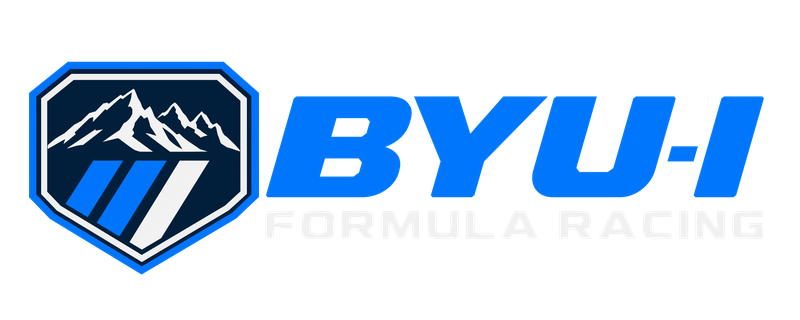
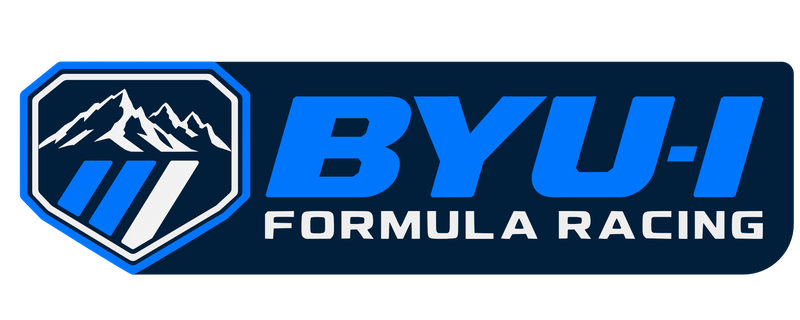
Use custom transparent artwork in compact email signature

diff --git a/docs/email-signature.html b/docs/email-signature.html
@@ -7,24 +7,19 @@
 </head>
 <body style="margin: 0; padding: 0;">
   <!-- Copy the rendered table into Outlook after the hosted PNG is deployed. -->
-  <table role="presentation" border="0" cellpadding="0" cellspacing="0" width="350" style="width: 350px; border-collapse: collapse; mso-table-lspace: 0pt; mso-table-rspace: 0pt; font-family: Arial, Helvetica, sans-serif;">
+  <table role="presentation" border="0" cellpadding="0" cellspacing="0" width="270" style="width: 270px; border-collapse: collapse; mso-table-lspace: 0pt; mso-table-rspace: 0pt; font-family: Arial, Helvetica, sans-serif;">
     <tr>
-      <td bgcolor="#031f3d" style="padding: 0; background-color: #031f3d;">
+      <td style="padding: 0 0 4px; border-bottom: 1px solid #0084ff;">
         <a href="https://byui-racing.com/" style="text-decoration: none;">
-          <img src="https://byui-racing.com/assets/images/email-signature-navy.png" alt="BYU–Idaho Formula Racing" width="350" height="140" border="0" style="display: block; width: 350px; height: 140px; border: 0; color: #ffffff; font-family: Arial, Helvetica, sans-serif; font-size: 16px;">
+          <img src="https://byui-racing.com/assets/images/email-signature.png?v=custom-1" alt="BYU–Idaho Formula Racing" width="270" height="108" border="0" style="display: block; width: 270px; height: 108px; border: 0; color: #526579; font-family: Arial, Helvetica, sans-serif; font-size: 14px;">
         </a>
       </td>
     </tr>
     <tr>
-      <td bgcolor="#ffffff" style="padding: 9px 0 0; background-color: #ffffff; color: #031f3d; font-family: Arial, Helvetica, sans-serif; font-size: 14px; line-height: 20px; mso-line-height-rule: exactly; font-weight: bold;">
-        BYU–Idaho Formula Racing
-      </td>
-    </tr>
-    <tr>
-      <td bgcolor="#ffffff" style="padding: 2px 0 0; background-color: #ffffff; font-family: Arial, Helvetica, sans-serif; font-size: 12px; line-height: 18px; mso-line-height-rule: exactly;">
-        <a href="https://www.instagram.com/byui.formula.racing/" style="color: #005eb8; text-decoration: underline;">Instagram</a>
-        <span style="color: #526579;">&nbsp; | &nbsp;</span>
-        <a href="https://www.linkedin.com/company/byu-i-formula-racing/home/" style="color: #005eb8; text-decoration: underline;">LinkedIn</a>
+      <td style="padding: 6px 0 0; color: #526579; font-family: Arial, Helvetica, sans-serif; font-size: 11px; line-height: 16px; mso-line-height-rule: exactly; font-weight: normal;">
+        <a href="https://www.instagram.com/byui.formula.racing/" style="color: #526579; text-decoration: underline;">Instagram</a>
+        <span style="color: #7a8795;">&nbsp; | &nbsp;</span>
+        <a href="https://www.linkedin.com/company/byu-i-formula-racing/home/" style="color: #526579; text-decoration: underline;">LinkedIn</a>
       </td>
     </tr>
   </table>

diff --git a/docs/EMAIL-SIGNATURE.md b/docs/EMAIL-SIGNATURE.md
@@ -1,23 +1,22 @@
 # Team email signature
 
-The standalone [HTML signature](email-signature.html) uses the approved horizontal team artwork, a table layout, and inline CSS. It displays the logo at 350 × 140 pixels above the team identity and clickable Instagram and LinkedIn links. The signature uses a PNG with Midnight Navy (`#031f3d`) baked into its background to keep the white lettering readable when email clients recolor HTML backgrounds. The original transparent PNG remains available separately. Text uses Midnight Navy and Action Blue (`#005eb8`) from `assets/css/tokens.css`, with Arial as an email-safe font.
+The standalone [HTML signature](email-signature.html) uses the supplied custom `Email Signature crest.png` artwork, a table layout, and inline CSS. It displays the logo at 270 × 108 pixels, about 23% narrower than the previous 350-pixel version. The artwork's own shaped navy backing protects its lettering, while the surrounding pixels and HTML table remain transparent. A 1-pixel Racing Blue (`#0084ff`) divider separates the logo from Instagram and LinkedIn links in smaller, muted 11-pixel text (`#526579`), using Arial as an email-safe font. There is no separate team-name line below the logo; the image's alt text retains the team identity.
 
 ## Files and public URLs
 
 | Purpose | Repository file | Public HTTPS URL after deployment |
 | --- | --- | --- |
 | Original horizontal logo | `assets/images/crest-horizontal.webp` | Existing website artwork; keep unchanged |
-| Transparent PNG, 800 × 320, approximately 76 KiB | `assets/images/email-signature.png` | https://byui-racing.com/assets/images/email-signature.png |
-| Recommended email PNG, 800 × 320, opaque navy background | `assets/images/email-signature-navy.png` | https://byui-racing.com/assets/images/email-signature-navy.png |
+| Custom transparent PNG, 800 × 320, approximately 76 KiB | `assets/images/email-signature.png` | https://byui-racing.com/assets/images/email-signature.png |
 | Signature to copy into Outlook | `docs/email-signature.html` | https://byui-racing.com/docs/email-signature.html |
 
-The transparent PNG was proportionally resized from the supplied 1983 × 793 WebP and saved as an optimized RGBA PNG, retaining its transparency and artwork. The navy version composites that PNG onto `#031f3d` without changing the dimensions or artwork. Email clients can use either PNG directly without WebP support.
+The PNG was proportionally resized from the supplied 1983 × 793 custom PNG and saved as an optimized RGBA PNG. Its transparency, full canvas, artwork, and built-in shaped backing are preserved; no extra rectangular background was added. The website's `crest-horizontal.webp` remains unchanged.
 
-Some email clients recolor HTML backgrounds in dark mode while leaving logo pixels unchanged. With the transparent logo, a lightened table background can make the white “Formula Racing” lettering hard to read. Baking the navy into the recommended image removes that dependence on the table background. Client behavior still varies; verify a received message in the affected Gmail and Outlook versions. See [Microsoft's guidance on email dark mode](https://learn.microsoft.com/en-us/dynamics365/customer-insights/journeys/email-dark-mode).
+Some email clients recolor HTML backgrounds in dark mode while leaving logo pixels unchanged. The custom artwork's own navy backing keeps the white “Formula Racing” lettering off the surrounding email background. Client behavior still varies; verify a received message in the affected Gmail and Outlook versions. See [Microsoft's guidance on email dark mode](https://learn.microsoft.com/en-us/dynamics365/customer-insights/journeys/email-dark-mode).
 
-If you installed the earlier transparent version, reopen the public HTML signature, copy it again, and replace the saved signature in Outlook. The new image filename helps avoid an old cached transparent image; already sent messages retain their previous signature.
+If you installed an earlier version, reopen the public HTML signature, copy it again, and replace the saved signature in Outlook. The HTML image URL includes `?v=custom-1` to request the replacement artwork without reusing an earlier cached image. The previous generated artwork was replaced, and the separate opaque navy export was removed. Previously sent messages do not acquire the new signature layout.
 
-The domain comes from the repository's existing `CNAME`: `byui-racing.com`. Each image URL consists of that HTTPS origin followed by its `/assets/images/` path; it does not include the repository name. Keep this domain and these file paths in service to preserve the URLs. These are stable public asset URLs without tokens or expiry, rather than a guarantee that the domain or hosting will exist forever.
+The domain comes from the repository's existing `CNAME`: `byui-racing.com`. The image URL consists of that HTTPS origin followed by `/assets/images/email-signature.png`; it does not include the repository name. Keep this domain and file path in service to preserve the URL. It is a stable public asset URL without tokens or expiry, rather than a guarantee that the domain or hosting will exist forever.
 
 ## Publishing with the existing website
 
@@ -31,7 +30,6 @@ Commit and push only the signature changes through the team's normal publishing 
 
 ```text
 assets/images/email-signature.png
-assets/images/email-signature-navy.png
 docs/email-signature.html
 docs/EMAIL-SIGNATURE.md
 README.md
@@ -41,7 +39,7 @@ The existing HTTPS website works with the configured domain. No Cloudflare DNS, 
 
 ## Install in Outlook
 
-First deploy the files and open https://byui-racing.com/assets/images/email-signature-navy.png in a private browser window. It should show the image directly without signing in. Then open https://byui-racing.com/docs/email-signature.html in a browser and wait for the logo to appear. Select the rendered signature with **Ctrl+A**, then **Ctrl+C**. Copy the displayed content, not the HTML source or the URL.
+First deploy the files and open https://byui-racing.com/assets/images/email-signature.png?v=custom-1 in a private browser window. It should show the image directly without signing in. Then open https://byui-racing.com/docs/email-signature.html in a browser and wait for the logo to appear. Select the rendered signature with **Ctrl+A**, then **Ctrl+C**. Copy the displayed content, not the HTML source or the URL.
 
 For **new Outlook for Windows or Outlook on the web**:
 
@@ -57,15 +55,15 @@ For **classic Outlook for Windows**:
 3. Paste the rendered signature into **Edit signature**, preserving formatting.
 4. Set the defaults for new messages and replies/forwards, then save with **OK**.
 
-Compose a fresh message in **HTML** format to check the result. The logo should be about 350 pixels wide, without stretching; both social links should work. Outlook may require separate signature setup for other accounts, devices, or clients. These paths follow [Microsoft's Outlook signature instructions](https://support.microsoft.com/en-us/outlook/mail/how-to-add-and-change-an-email-signature-in-outlook).
+Compose a fresh message in **HTML** format to check the result. The logo should be about 270 pixels wide, without stretching, with a thin blue divider and only the two social links below it. Outlook may require separate signature setup for other accounts, devices, or clients. These paths follow [Microsoft's Outlook signature instructions](https://support.microsoft.com/en-us/outlook/mail/how-to-add-and-change-an-email-signature-in-outlook).
 
-Outlook versions can rewrite pasted HTML or embed a copy of the image. Check a received test message, not just the editor. If retaining the remote image reference is required, inspect the received message's HTML and confirm its `img` source still points to the hosted PNG rather than a local path or `cid:` attachment. A hosted source in the template does not force Outlook to retain it. Recipient clients can block remote pictures until the reader allows them; the signature's text identity and social links remain usable. Image blocking does not by itself mean hosting failed.
+Outlook versions can rewrite pasted HTML or embed a copy of the image. Check a received test message, not just the editor. If retaining the remote image reference is required, inspect the received message's HTML and confirm its `img` source still points to the hosted PNG rather than a local path or `cid:` attachment. A hosted source in the template does not force Outlook to retain it. Recipient clients can block remote pictures until the reader allows them; the descriptive image alt text identifies the team where supported, and the social links remain usable. Image blocking does not by itself mean hosting failed.
 
 ## Update the logo later
 
 1. Obtain the approved horizontal artwork. Keep original brand files intact; make an email export separately. If replacement artwork is missing, place the approved source under `assets/images/` with a descriptive lowercase, hyphenated filename before exporting.
-2. In an image editor, export an optimized **PNG with transparency**, 800 pixels wide, with proportional scaling enabled, as `assets/images/email-signature.png`. Export a second copy composited onto a solid Midnight Navy (`#031f3d`) background as `assets/images/email-signature-navy.png`. Keep the source artwork and transparent export intact. Do not stretch, crop, or recolor the logo. The current outputs are 800 × 320; aim for under 100 KiB each where practical without harming the artwork.
-3. Replace both PNGs, keeping their exact filenames and paths. The HTML signature uses the navy version. If the new aspect ratio differs, update the HTML image's `height` attribute and inline height to `round(350 × exported height / exported width)`. Keep both width values at 350.
+2. In an image editor, export an optimized **PNG with transparency**, 800 pixels wide, with proportional scaling enabled, as `assets/images/email-signature.png`. Preserve the approved artwork's own backing and transparent surroundings; do not add an extra rectangle or flatten the image. Do not stretch, crop, or recolor the logo. The current output is 800 × 320; aim for under 100 KiB where practical without harming the artwork.
+3. Keep that exact filename and path. If the new aspect ratio differs, update the HTML image's `height` attribute and inline height to `round(270 × exported height / exported width)`. Keep the table width and both image width values at 270. Increment the image URL's version query (for example, `?v=custom-2`) when replacing the artwork, then recopy the updated signature into Outlook.
 4. Run `python scripts/check_site.py` (or `py scripts/check_site.py` on Windows), review the signature, and publish the replacement through the existing Pages process.
 5. Check the public PNG after deployment. A cached copy may persist in browsers, Cloudflare, or email image proxies. Hard-refresh first; if Cloudflare is caching the image and it remains stale, purge only this exact asset URL through the existing dashboard. A DNS change is unnecessary.
 6. Recopy and save the signature in Outlook if its HTML changed or Outlook embedded the previous image. Previously sent messages and recipient caches may retain the older logo.
@@ -73,9 +71,9 @@ Outlook versions can rewrite pasted HTML or embed a copy of the image. Check a r
 ## Brief verification checklist
 
 - [ ] The Pages deployment for the published commit completed successfully.
-- [ ] Both public PNG URLs load over HTTPS without authentication, return `200` and `Content-Type: image/png`, and contain the intended 800-pixel-wide images.
-- [ ] The original PNG retains transparency; the signature uses the opaque navy PNG and shows the complete horizontal artwork at approximately 350 pixels wide.
-- [ ] The signature says **BYU–Idaho Formula Racing**, with no personal name, position, or separate university line.
+- [ ] The public PNG URL loads over HTTPS without authentication, returns `200` and `Content-Type: image/png`, and contains the intended 800-pixel-wide custom image.
+- [ ] The PNG retains transparency and its built-in shaped backing; the table adds no background rectangle. The complete artwork displays at approximately 270 pixels wide.
+- [ ] Only a thin blue divider and smaller Instagram and LinkedIn links appear beneath the logo; there is no separate team-name, personal name, position, or university line. The image alt text identifies **BYU–Idaho Formula Racing**.
 - [ ] Instagram opens `https://www.instagram.com/byui.formula.racing/` and LinkedIn opens `https://www.linkedin.com/company/byu-i-formula-racing/home/`.
 - [ ] A received HTML email looks correct in the team's Outlook client and Gmail, on a phone, and with remote images blocked; check light and dark mode, including the white lettering inside the logo.
 - [ ] If a remote image reference is required, the received HTML still references the public PNG URL.
